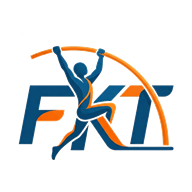
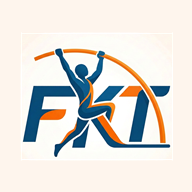
Icona app: mantiene lo sfondo crema originale, tolto solo il riflesso

Changed region(s): [[0.0938, 0.2188, 0.9062, 0.8438]]

diff --git a/sw.js b/sw.js
@@ -1,7 +1,7 @@
 /* Service worker minimale: rende l'app installabile e usabile offline.
    Strategia "prima la rete": quando c'è connessione mostra sempre l'ultima
    versione pubblicata; se manca la connessione, usa l'ultima copia salvata. */
-const CACHE_NAME = 'tabella-esercizi-v4';
+const CACHE_NAME = 'tabella-esercizi-v5';
 const APP_SHELL = [
   './', './index.html', './scheda.html', './libreria.html',
   './exercises-data.js', './manifest.json',
